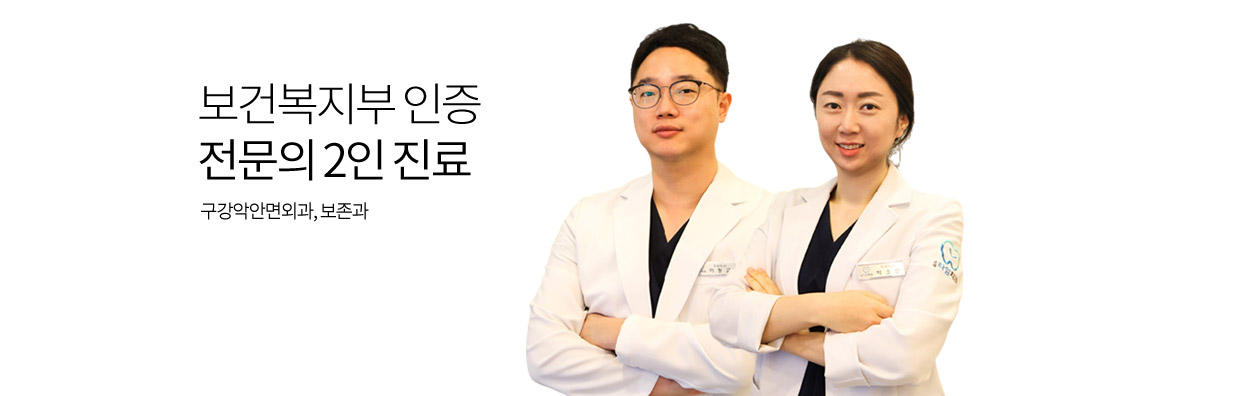
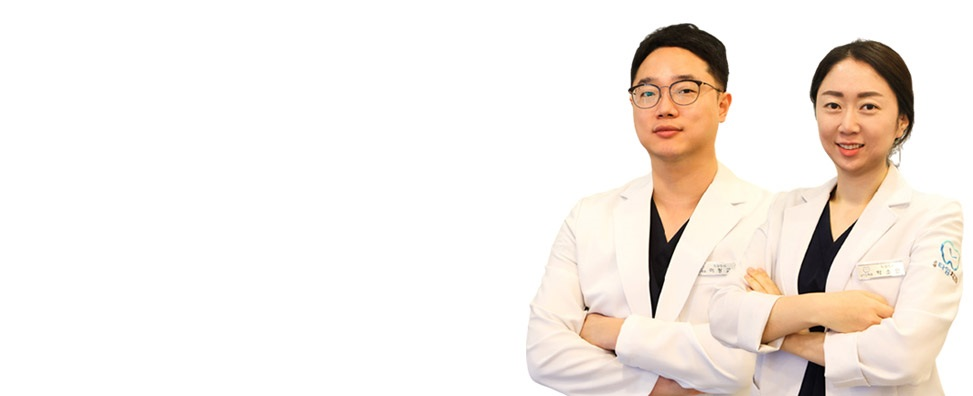
2024-02-02_17:13

Changed region(s): [[0.4008, 0.0606, 1.0, 1.0], [0.1542, 0.2121, 0.4008, 0.4545], [0.1542, 0.5152, 0.3083, 0.5758]]

diff --git a/index.html b/index.html
@@ -215,15 +215,30 @@
                                 <div class="imagebox">
                                     <img src="./image/bannerC_01.jpg" alt="보건복지부 인증 전문의 2인 진료">
                                 </div>
+                                <div class="textbox">
+                                    <h3><span>보건복지부 인증</span><span class="textbox_bold">전문의 2인 진료</span></h3>
+                                    <p>구강악안면외과, 보존과</p>
+                                    <a href="#" class="advertisingSlide_bt">자세히 보기</a>
+                                </div>
                             </div>
                             <div class="slide">
                                 <div class="imagebox">
                                     <img src="./image/bannerC_02.jpg" alt="CT 촬영 및 진단, 첨단 디지털 CT 장비 보유">
                                 </div>
+                                <div class="textbox">
+                                    <h3><span>CT촬영 및 진단</span><span class="textbox_bold">첨단 디지털 CT 장비 보유</span></h3>
+                                    <p>일반 X선 사진보다 더 정확하고 정밀합니다</p>
+                                    <a href="#" class="advertisingSlide_bt">자세히 보기</a>
+                                </div>
                             </div>
                             <div class="slide">
                                 <div class="imagebox">
                                     <img src="./image/bannerC_03.jpg" alt="은평타임치과 치료전후사진">
+                                </div>
+                                <div class="textbox">
+                                    <h3><span>은평타임치과</span><span class="textbox_bold">치료전후사진</span></h3>
+                                    <p><span>다양한 시술 사례를 통해</span><span>은평타임치과의 우수성을 확인해보세요</span></p>
+                                    <a href="#" class="advertisingSlide_bt">자세히 보기</a>
                                 </div>
                             </div>
                         </div>
@@ -354,10 +369,10 @@
                             </ul>
                             <ul class="contact">
                                 <li class="titlebox">
-                                    <h3>연락처</h3>
+                                    <h3>대표번호</h3>
                                 </li>
                                 <li class="textbox">
-                                    <p>대표번호 <strong>02-6481-2875</strong></p>
+                                    <p>02-6481-2875</p>
                                 </li>
                             </ul>
                         </li>
@@ -388,14 +403,6 @@
                             </div>
                         </div>
                     </div>
-                    <!-- <ul class="relationship_slide">
-                        <li><img src="./image/img_slide_01.jpg" alt="보건복지부"></li>
-                        <li><img src="./image/img_slide_02.jpg" alt="국민건강보험"></li>
-                        <li><img src="./image/img_slide_03.jpg" alt="경희대학교"></li>
-                        <li><img src="./image/img_slide_04.jpg" alt="대한구강악안면외과학회"></li>
-                        <li><img src="./image/img_slide_05.jpg" alt="대한치과위생사협회"></li>
-                        <li><img src="./image/img_slide_06.jpg" alt="대한치과의사협회"></li>
-                    </ul> -->
                 </div>
             </div>
         </section>
@@ -445,10 +452,11 @@
                         </li>
                     </ul>
                 </li>
-                <li>
+                <li class="shortcutsbox_support">
                     <ul>
                         <li class="shortcutsbox_contents"><a href="#">고객지원센터</a></li>
-                        <li class="shortcutsbox_contents"><a href="#">02-6481-2875</a></li>
+                        <li class="shortcutsbox_contents"><a href="Tel:02-6481-2875"><strong>02-6481-2875</strong></a>
+                        </li>
                     </ul>
                 </li>
                 <li class="shortcutsbox_bt"><a href="#"><i class="fa-solid fa-angle-left"></i></a></li>
@@ -532,6 +540,8 @@
 
 
             // ⭐⭐ 자바스크립트로 기능넣기 ⭐⭐
+            // 화면 사이즈가 바뀔 때 값을 다시 정의 필요
+            // 화면 사이즈(960px)보다 작으면 일정 스크립트들은 작동하지 않게 수정 필요
 
             let header = document.querySelector("#header");
             let header_nav = document.querySelector(".header_nav");
@@ -546,6 +556,7 @@
             // 초기 설정
             header_nav.style.height = `${minHeight}px`;
             header_navline.style.bottom = `-${minHeight}px`;
+            document.querySelector("#section").style.marginTop = `${minHeight}px`;
 
             // 최대 높이 계산 
             // 인라인 스타일이 아니면 getAttribute로 안 가져와져서 getComputedStyle 을 사용

diff --git a/css/index.css b/css/index.css
@@ -399,20 +399,65 @@ h2 {
 
 /* section - 3 - advertisingSlide ================================= */
 
-.advertisingSlide .slick-dots {
+#section .advertisingSlide .slide {
+  position: relative;
+}
+
+#section .advertisingSlide .imagebox {
+  display: flex;
+  justify-content: flex-end;
+}
+
+#section .advertisingSlide .textbox {
   position: absolute;
-  width: 70%;
-  bottom: 0;
-  left: 50%;
-  transform: translateX(-50%);
+  width: 100%;
+  top: 50%;
+  transform: translateY(-50%);
+  text-align: left;
 }
 
-.advertisingSlide .slick-dots li {
+#section .advertisingSlide .textbox h3 {
+  font-size: 42px;
+  font-weight: 100;
+}
+
+#section .advertisingSlide .textbox h3 .textbox_bold {
+  font-weight: 800;
+}
+
+#section .advertisingSlide .textbox p {
+  padding: 20px 0 40px;
+  font-size: 20px;
+  color: gray;
+}
+
+#section .advertisingSlide .advertisingSlide_bt {
   display: inline-block;
-  padding: 40px 0;
+  padding: 12px 32px;
+  border-radius: 40px;
+  border: 1px solid gray;
+  color: gray;
+  transition: all 0.3s;
 }
 
-.advertisingSlide .slick-dots li button {
+#section .advertisingSlide .advertisingSlide_bt:hover {
+  color: white;
+  background-color: #1a325e;
+  border: 1px solid #1a325e;
+}
+
+#section .advertisingSlide .slick-dots {
+  position: absolute;
+  bottom: 0;
+  left: 0;
+}
+
+#section .advertisingSlide .slick-dots li {
+  display: inline-block;
+  padding: 20px 0;
+}
+
+#section .advertisingSlide .slick-dots li button {
   width: 14px;
   height: 14px;
   border-radius: 50%;
@@ -425,7 +470,7 @@ h2 {
   opacity: 0.8;
 }
 
-.advertisingSlide .slick-dots li.slick-active button {
+#section .advertisingSlide .slick-dots li.slick-active button {
   background-color: #1c6ab3;
   opacity: 1;
 }
@@ -656,6 +701,7 @@ h2 {
   display: flex;
   height: 50px;
   align-items: center;
+  justify-content: center;
 }
 
 /* section 끝 ================================= */
@@ -757,7 +803,7 @@ h2 {
   box-shadow: 3px 3px 10px rgba(0, 0, 0, 0.2);
   border-top-left-radius: 20px;
   border-bottom-left-radius: 20px;
-  padding: 40px;
+  padding: 26px 40px;
   font-weight: 300;
   font-size: 15px;
   transition: all 0.5s;
@@ -806,6 +852,19 @@ h2 {
 
 .shortcutsbox.active .shortcutsbox_bt a i {
   transform: rotate(180deg);
+}
+
+.shortcutsbox_support {
+  text-align: center;
+  padding: 20px 0 10px 0;
+}
+.shortcutsbox .shortcutsbox_support .shortcutsbox_contents a {
+  padding: 2px 0;
+}
+
+.shortcutsbox_support a strong {
+  color: #009bf0;
+  font-size: 16px;
 }
 
 /* aside - popup ================================= */

diff --git a/css/rwdindex.css b/css/rwdindex.css
@@ -8,7 +8,7 @@
     display: none;
   }
   #header .row {
-    padding: 0 30px;
+    padding: 0 36px;
   }
 
   #header .header_logo .header_logoAd {
@@ -30,11 +30,14 @@
   #header .depth_01 .header_nav_mainmenu > a {
     justify-content: flex-start;
   }
-
+  #header .depth_01 .header_nav_mainmenu > a::after {
+    display: none;
+  }
   #header .depth_02 {
     position: relative;
     visibility: visible;
     opacity: 1;
+    border-right: none;
   }
 
   #header .header_nav_mainmenu:first-child .depth_02 {
@@ -79,6 +82,10 @@
   #section .introduction .cardbox_02 li img {
     display: flex;
     width: 100%;
+  }
+
+  #section .advertisingSlide .textbox {
+    padding: 0 36px;
   }
 
   /* section - 4 - community ================================= */
